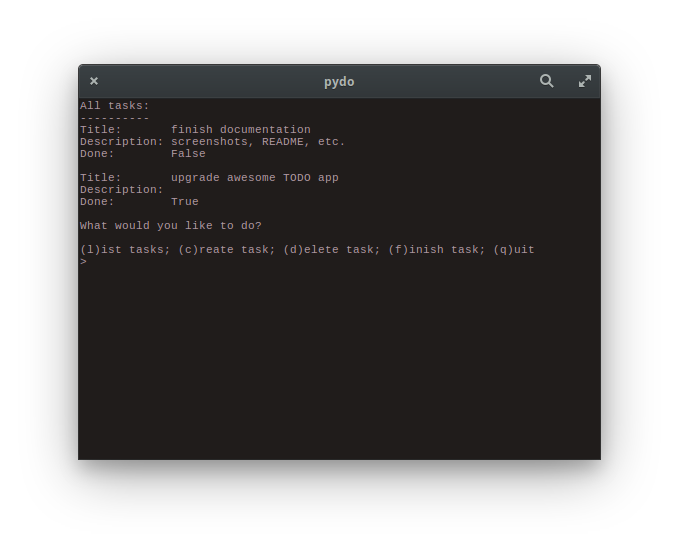
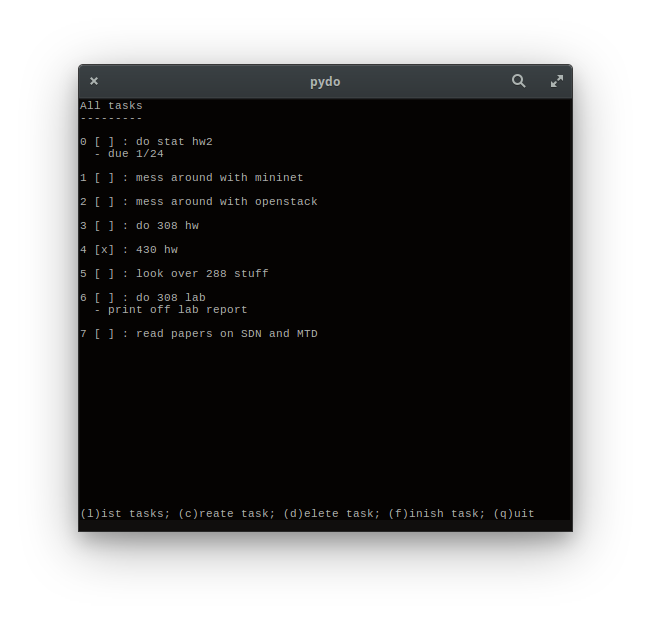
update screenshot for list view

diff --git a/pydo/List.py b/pydo/List.py
@@ -53,10 +53,12 @@ class TaskList(list):
         """function name says it all"""
         self._task_list = []
         with open(self._list_file) as json_file:
-            data = json.load(json_file)
-            for tmp_task in data:
-                self._task_list.append(Task.Task(tmp_task["title"], \
-                    tmp_task["description"], tmp_task["done"]))
+            data = json_file.read()
+            if data != '':
+                data = json.loads(data)
+                for tmp_task in data:
+                    self._task_list.append(Task.Task(tmp_task["title"], \
+                        tmp_task["description"], tmp_task["done"]))
 
     def add_task(self, task_to_add):
         """adds a task to this list"""

diff --git a/README.md b/README.md
@@ -66,8 +66,6 @@ PATH="$PATH:$HOME/.local/bin"
 ```
 
 ## Screenshots
-#### Welcome screen
-![png](https://raw.githubusercontent.com/rugglcon/pydo/master/assets/welcome.png)
 
 #### Listing all tasks
 ![png](https://raw.githubusercontent.com/rugglcon/pydo/master/assets/list.png)
